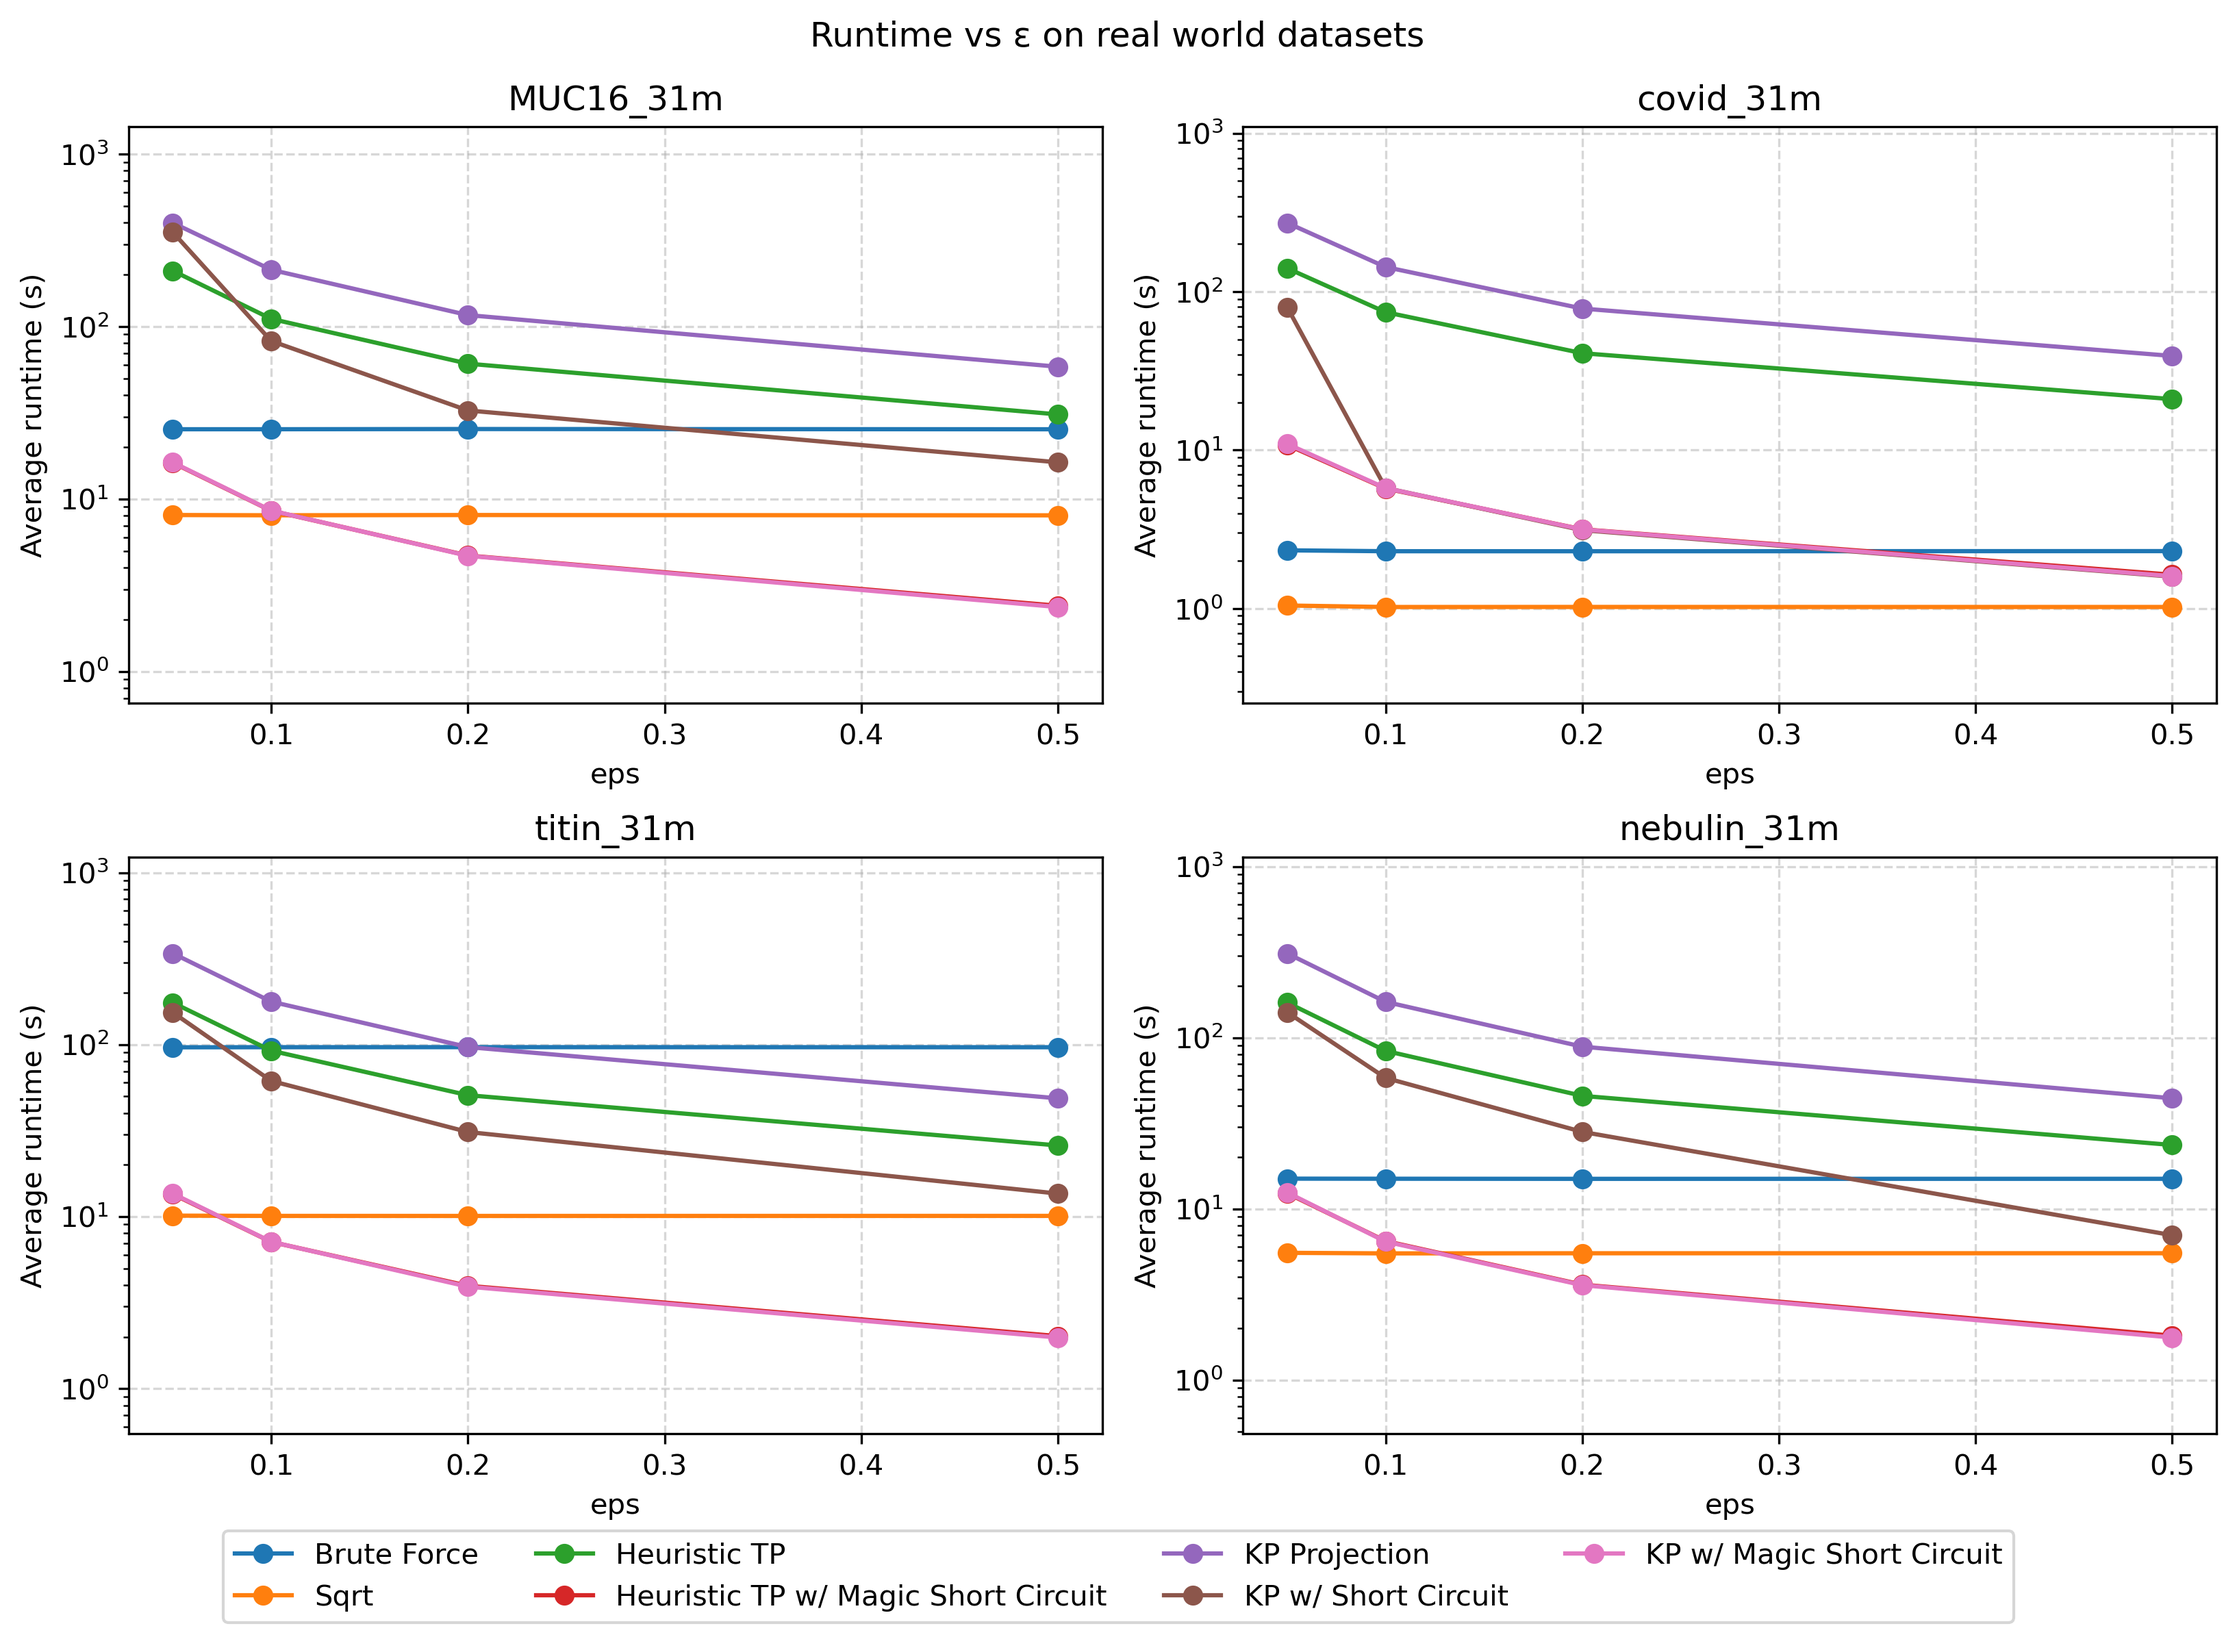
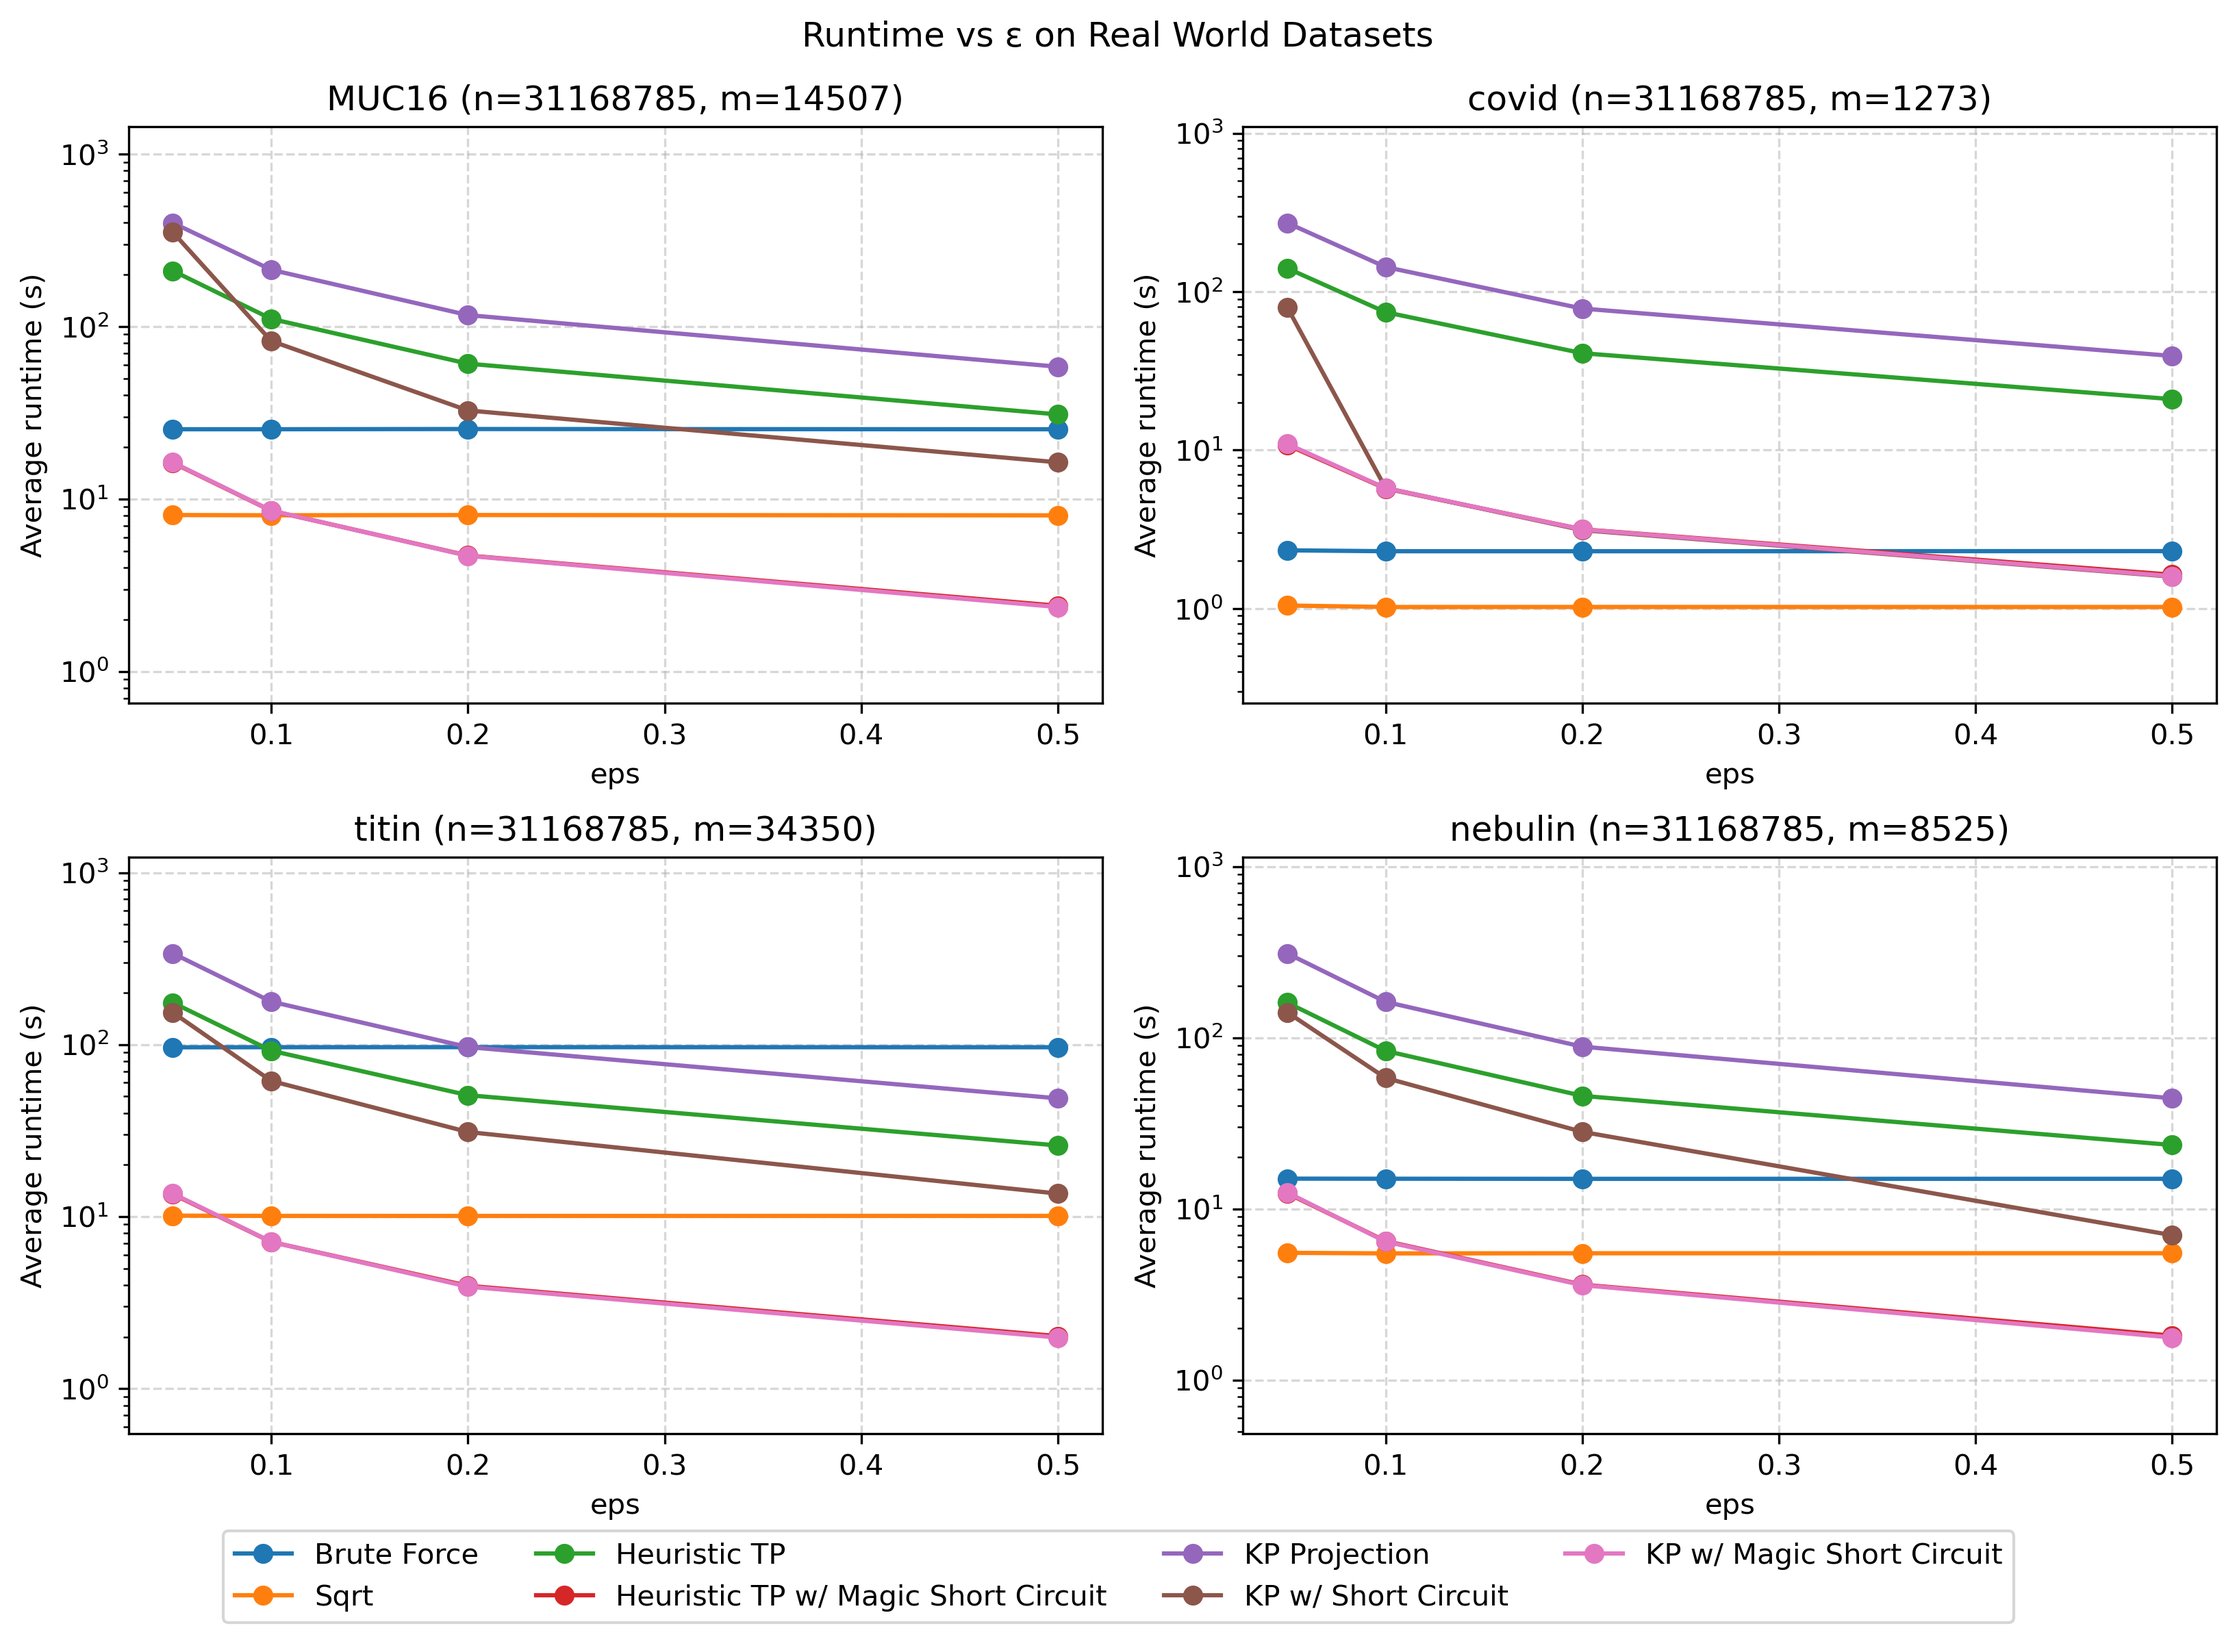
added n and m values to graphs

diff --git a/src/plotting_new_real_data.py b/src/plotting_new_real_data.py
@@ -12,6 +12,8 @@ df3 = pd.read_csv("../results/" + DATA_CSVNAMES[2] + ".csv").copy()
 df4 = pd.read_csv("../results/" + DATA_CSVNAMES[3] + ".csv").copy()
 dfs = [df1, df2, df3, df4]
 
+m_values = [14507, 1273, 34350, 8525]
+
 SAVE_NAME = '_'.join(DATA_CSVNAMES)
 name_map = {
     "Brute force": "Brute Force",
@@ -87,13 +89,13 @@ RATIO = "avg_ratio"
 # =====================================================
 fig1, axes1 = plt.subplots(2, 2, figsize=(11, 8))
 ax_poses = [(0,0), (0,1), (1,0), (1,1)]
-for df, pos, dataset_name in zip(dfs, ax_poses, DATA_CSVNAMES):
+for df, pos, dataset_name, m in zip(dfs, ax_poses, DATA_CSVNAMES, m_values):
     plot_group_on_ax(
         axes1[pos], df, all_algos,
         x_col="eps",
         metric=TIME,
         x_label="eps",
-        title=f"{dataset_name}",
+        title=f"{dataset_name}".replace("_31m", "") + f" (n={baseline_n}, m={m})",
         log_x=False, log_y=True,
     )
 
